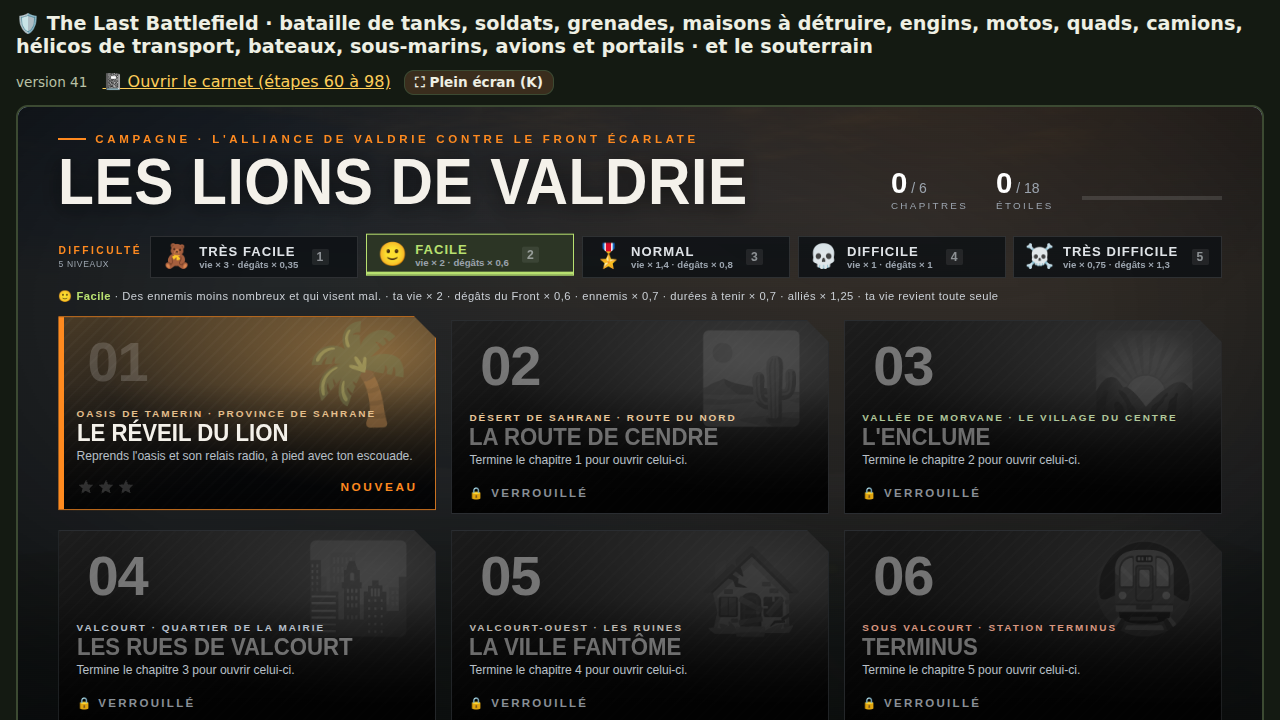
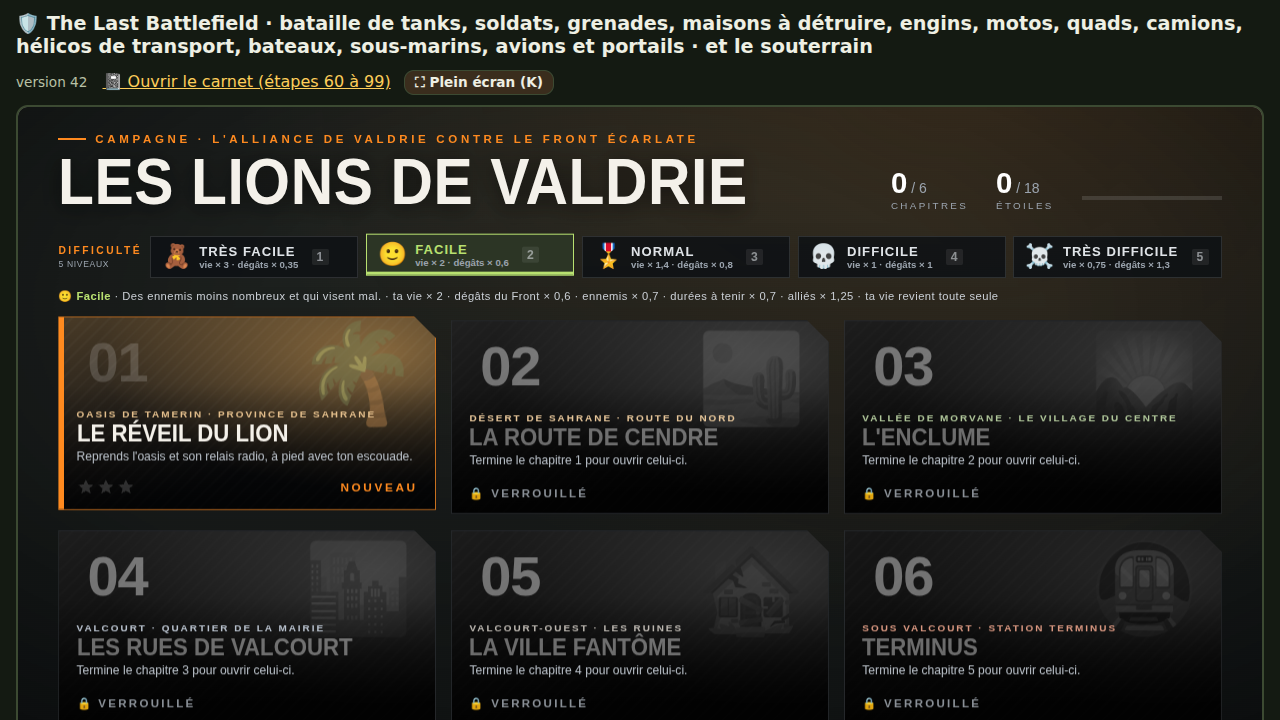
Étape 99 : tanks v42, une base aérienne par camp, pistes destructibles, véhicules rangés
Claude-Session: https://claude.ai/code/session_01NXxpzeFc1qsU3Rg1ZA8dHc

diff --git a/tanks/index.html b/tanks/index.html
@@ -454,7 +454,7 @@
   <div class="page">
     <header class="entete">
       <h1>🛡 The Last Battlefield · bataille de tanks, soldats, grenades, maisons à détruire, engins, motos, quads, camions, hélicos de transport, bateaux, sous-marins, avions et portails · et le souterrain</h1>
-      <span><span id="version" class="version"></span> <a href="../index.html#etape98">📓 Ouvrir le carnet (étapes 60 à 98)</a> <button id="plein-ecran" type="button" title="Plein écran (touche K)">⛶ Plein écran (K)</button></span>
+      <span><span id="version" class="version"></span> <a href="../index.html#etape99">📓 Ouvrir le carnet (étapes 60 à 99)</a> <button id="plein-ecran" type="button" title="Plein écran (touche K)">⛶ Plein écran (K)</button></span>
     </header>
 
     <div class="cadre-ecran">
@@ -511,71 +511,71 @@
   </div>
 
   <script src="../circuit/vendor/three.min.js"></script>
-  <script src="config.js?v=41"></script>
-  <script src="moteur/evenements.js?v=41"></script>
-  <script src="moteur/bruit.js?v=41"></script>
-  <script src="moteur/entrees.js?v=41"></script>
-  <script src="moteur/grille.js?v=41"></script>
-  <script src="donnees/carte-du-jour.js?v=41"></script>
-  <script src="logique/base.js?v=41"></script>
-  <script src="logique/terrain.js?v=41"></script>
-  <script src="logique/souterrain.js?v=41"></script>
-  <script src="logique/structures.js?v=41"></script>
-  <script src="logique/char.js?v=41"></script>
-  <script src="logique/obus.js?v=41"></script>
-  <script src="logique/ia.js?v=41"></script>
-  <script src="logique/soldat.js?v=41"></script>
-  <script src="logique/troupes.js?v=41"></script>
-  <script src="logique/vehicules.js?v=41"></script>
-  <script src="logique/helicos.js?v=41"></script>
-  <script src="logique/bateaux.js?v=41"></script>
-  <script src="logique/portails.js?v=41"></script>
-  <script src="logique/sousmarins.js?v=41"></script>
-  <script src="logique/avions.js?v=41"></script>
-  <script src="logique/ordres.js?v=41"></script>
-  <script src="logique/radio.js?v=41"></script>
-  <script src="logique/engins.js?v=41"></script>
-  <script src="logique/progression.js?v=41"></script>
-  <script src="logique/equipement.js?v=41"></script>
-  <script src="logique/armes.js?v=41"></script>
-  <script src="logique/gadgets.js?v=41"></script>
-  <script src="logique/explosifs.js?v=41"></script>
-  <script src="donnees/sauvegarde.js?v=41"></script>
-  <script src="logique/monde.js?v=41"></script>
-  <script src="logique/campagne.js?v=41"></script>
-  <script src="affichage/outils3d.js?v=41"></script>
-  <script src="affichage/chars3d.js?v=41"></script>
-  <script src="affichage/armes3d.js?v=41"></script>
-  <script src="affichage/uniformes.js?v=41"></script>
-  <script src="affichage/engins3d.js?v=41"></script>
-  <script src="affichage/vehicules3d.js?v=41"></script>
-  <script src="affichage/helicos3d.js?v=41"></script>
-  <script src="affichage/avions3d.js?v=41"></script>
-  <script src="affichage/maisons3d.js?v=41"></script>
-  <script src="affichage/base3d.js?v=41"></script>
-  <script src="affichage/decor.js?v=41"></script>
-  <script src="affichage/marques-sol.js?v=41"></script>
-  <script src="affichage/effets.js?v=41"></script>
-  <script src="affichage/particules.js?v=41"></script>
-  <script src="affichage/tirs.js?v=41"></script>
-  <script src="affichage/explosions.js?v=41"></script>
-  <script src="affichage/explosifs3d.js?v=41"></script>
-  <script src="affichage/station3d.js?v=41"></script>
-  <script src="affichage/scene.js?v=41"></script>
-  <script src="affichage/qualite.js?v=41"></script>
-  <script src="affichage/tableau.js?v=41"></script>
-  <script src="affichage/sous-le-capot.js?v=41"></script>
-  <script src="affichage/sons.js?v=41"></script>
-  <script src="affichage/musique.js?v=41"></script>
-  <script src="affichage/barre-ordres.js?v=41"></script>
-  <script src="affichage/radio-voix.js?v=41"></script>
-  <script src="affichage/ambiance.js?v=41"></script>
-  <script src="affichage/plein-ecran.js?v=41"></script>
-  <script src="affichage/accueil.js?v=41"></script>
-  <script src="affichage/menu.js?v=41"></script>
-  <script src="affichage/progression-ecrans.js?v=41"></script>
-  <script src="affichage/campagne-tableau.js?v=41"></script>
-  <script src="affichage/campagne-ecrans.js?v=41"></script>
-  <script src="main.js?v=41"></script>
+  <script src="config.js?v=42"></script>
+  <script src="moteur/evenements.js?v=42"></script>
+  <script src="moteur/bruit.js?v=42"></script>
+  <script src="moteur/entrees.js?v=42"></script>
+  <script src="moteur/grille.js?v=42"></script>
+  <script src="donnees/carte-du-jour.js?v=42"></script>
+  <script src="logique/base.js?v=42"></script>
+  <script src="logique/terrain.js?v=42"></script>
+  <script src="logique/souterrain.js?v=42"></script>
+  <script src="logique/structures.js?v=42"></script>
+  <script src="logique/char.js?v=42"></script>
+  <script src="logique/obus.js?v=42"></script>
+  <script src="logique/ia.js?v=42"></script>
+  <script src="logique/soldat.js?v=42"></script>
+  <script src="logique/troupes.js?v=42"></script>
+  <script src="logique/vehicules.js?v=42"></script>
+  <script src="logique/helicos.js?v=42"></script>
+  <script src="logique/bateaux.js?v=42"></script>
+  <script src="logique/portails.js?v=42"></script>
+  <script src="logique/sousmarins.js?v=42"></script>
+  <script src="logique/avions.js?v=42"></script>
+  <script src="logique/ordres.js?v=42"></script>
+  <script src="logique/radio.js?v=42"></script>
+  <script src="logique/engins.js?v=42"></script>
+  <script src="logique/progression.js?v=42"></script>
+  <script src="logique/equipement.js?v=42"></script>
+  <script src="logique/armes.js?v=42"></script>
+  <script src="logique/gadgets.js?v=42"></script>
+  <script src="logique/explosifs.js?v=42"></script>
+  <script src="donnees/sauvegarde.js?v=42"></script>
+  <script src="logique/monde.js?v=42"></script>
+  <script src="logique/campagne.js?v=42"></script>
+  <script src="affichage/outils3d.js?v=42"></script>
+  <script src="affichage/chars3d.js?v=42"></script>
+  <script src="affichage/armes3d.js?v=42"></script>
+  <script src="affichage/uniformes.js?v=42"></script>
+  <script src="affichage/engins3d.js?v=42"></script>
+  <script src="affichage/vehicules3d.js?v=42"></script>
+  <script src="affichage/helicos3d.js?v=42"></script>
+  <script src="affichage/avions3d.js?v=42"></script>
+  <script src="affichage/maisons3d.js?v=42"></script>
+  <script src="affichage/base3d.js?v=42"></script>
+  <script src="affichage/decor.js?v=42"></script>
+  <script src="affichage/marques-sol.js?v=42"></script>
+  <script src="affichage/effets.js?v=42"></script>
+  <script src="affichage/particules.js?v=42"></script>
+  <script src="affichage/tirs.js?v=42"></script>
+  <script src="affichage/explosions.js?v=42"></script>
+  <script src="affichage/explosifs3d.js?v=42"></script>
+  <script src="affichage/station3d.js?v=42"></script>
+  <script src="affichage/scene.js?v=42"></script>
+  <script src="affichage/qualite.js?v=42"></script>
+  <script src="affichage/tableau.js?v=42"></script>
+  <script src="affichage/sous-le-capot.js?v=42"></script>
+  <script src="affichage/sons.js?v=42"></script>
+  <script src="affichage/musique.js?v=42"></script>
+  <script src="affichage/barre-ordres.js?v=42"></script>
+  <script src="affichage/radio-voix.js?v=42"></script>
+  <script src="affichage/ambiance.js?v=42"></script>
+  <script src="affichage/plein-ecran.js?v=42"></script>
+  <script src="affichage/accueil.js?v=42"></script>
+  <script src="affichage/menu.js?v=42"></script>
+  <script src="affichage/progression-ecrans.js?v=42"></script>
+  <script src="affichage/campagne-tableau.js?v=42"></script>
+  <script src="affichage/campagne-ecrans.js?v=42"></script>
+  <script src="main.js?v=42"></script>
 </body>
 </html>

diff --git a/index.html b/index.html
@@ -220,6 +220,7 @@
       <a href="#etape96">Étape 96</a>
       <a href="#etape97">Étape 97</a>
       <a href="#etape98">Étape 98</a>
+      <a href="#etape99">Étape 99</a>
       <a href="#route">Vers Minecraft</a>
       <a href="#journal">Journal</a>
       <a class="jouer" href="jeu/index.html">▶ Jouer</a>
@@ -5141,6 +5142,44 @@ APRÈS :  [ tous les trottoirs soudés ]                   →   1 dessin</pre>
       </ol>
     </section>
 
+    <section id="etape99">
+      <h2>🛫 Étape 99 : les bases aériennes, et des pistes qu'on peut détruire <span class="etiquette">✅ livrée · à valider</span></h2>
+      <p class="chapeau">Chaque camp a sa base : une piste, des hangars, une tour de contrôle, des aires « H » pour les hélicos, une zone pour les tanks et un parking bien rangé. Et tu peux trouer la piste ennemie pour clouer ses avions au sol ! <a href="tanks/index.html"><strong>▶ The Last Battlefield</strong></a></p>
+      <div class="grille">
+        <div class="carte">
+          <h4>📋 La demande</h4>
+          <p class="petit">Le fichier complet est dans <code>demandes/99-base-aerienne.md</code>.</p>
+          <ul>
+            <li>✍ « Une base aérienne avec une piste d'atterrissage, des hangars et des zones pour faire décoller les avions, les hélicoptères et les tanks. Range tout. »</li>
+            <li>✍ « Tu pourras détruire leurs pistes pour empêcher les avions de chasse et les avions de transport de décoller. »</li>
+          </ul>
+        </div>
+        <div class="carte">
+          <h4>✅ Ce que tu peux vérifier</h4>
+          <ul>
+            <li>☐ « version 42 ».</li>
+            <li>☐ Ta base (au sud) : la piste, 3 hangars, la tour, les aires H, les tanks en ligne, le parking.</li>
+            <li>☐ La même base chez l'ennemi (au nord) ; pas de base dans le souterrain.</li>
+            <li>☐ Les avions ennemis roulent sur leur piste et décollent.</li>
+            <li>☐ 3 morceaux de piste troués (bombes du Tigre, roquettes, obus…) → piste FERMÉE, une croix jaune, plus d'avions ennemis ni de parachutistes.</li>
+            <li>☐ L'ennemi rebouche un trou toutes les 14 s. Toi, ton ingénieur rebouche ta piste avec l'outil de réparation (Espace, 4 s par trou).</li>
+          </ul>
+        </div>
+      </div>
+      <h3>🧩 Une piste en 8 morceaux</h3>
+      <p>La piste fait 440 m. Le jeu la coupe en 8 morceaux de 55 m. Chaque explosion donne des « points de dégâts » au morceau touché (bombe 2, roquette 1, grenade 0,5…). À 2 points, le morceau est troué. À 3 morceaux troués, la piste ferme. Elle rouvre seulement quand il n'y a plus aucun trou. C'est un compteur par morceau, puis une règle sur le total.</p>
+      <h3>🔍 Missions d'exploration</h3>
+      <ul>
+        <li>Sous le capot, section « Les bases aériennes (demande 99) » : regarde la barre [▮▮▮▮····] de chaque piste pendant que tu bombardes.</li>
+        <li>Dans <code>tanks/config.js</code>, cherche <code>baseAerienne</code> : combien de morceaux troués faut-il pour fermer la piste ?</li>
+      </ul>
+      <h3>❓ Quiz</h3>
+      <ol>
+        <li>Combien de morceaux troués ferment une piste ? <span class="petit">(3)</span></li>
+        <li>Si l'ennemi ferme TA piste, que peux-tu faire ? <span class="petit">(la réparer avec l'ingénieur)</span></li>
+      </ol>
+    </section>
+
     <!-- ============ LE VILLAGE (projet à part) ============ -->
     <section id="village">
       <h2>🏘 Le village : un projet à part</h2>
@@ -6465,6 +6504,15 @@ APRÈS :  [ tous les trottoirs soudés ]                   →   1 dessin</pre>
         <textarea class="journal" id="appris-98" data-cle="appris-98" placeholder="Ex. : …"></textarea>
         <label for="idees-98"><strong>Mes idées pour la suite</strong></label>
         <textarea class="journal" id="idees-98" data-cle="idees-98" placeholder="Ex. : …"></textarea>
+      </div>
+      <div class="carte" style="margin-top: 14px">
+        <h4>Étape 99 · les bases aériennes <span class="petit">· 22 octobre 2026</span></h4>
+        <p><strong>Ce qui a été changé :</strong> <code>tanks/logique/base.js</code>, <code>tanks/affichage/base3d.js</code>, <code>terrain.js</code>, <code>avions.js</code>, <code>engins.js</code>.</p>
+        <p class="petit">✍ Maxance a demandé : une base aérienne rangée, et des pistes qu'on peut détruire.</p>
+        <label for="appris-99"><strong>Ce que j'ai appris</strong> <span class="petit">(à remplir par Maxance, sauvegardé dans ce navigateur)</span></label>
+        <textarea class="journal" id="appris-99" data-cle="appris-99" placeholder="Ex. : …"></textarea>
+        <label for="idees-99"><strong>Mes idées pour la suite</strong></label>
+        <textarea class="journal" id="idees-99" data-cle="idees-99" placeholder="Ex. : …"></textarea>
       </div>
     </section>
   </main>

diff --git a/tanks/affichage/base3d.js b/tanks/affichage/base3d.js
@@ -368,7 +368,7 @@ Tanks.Base3D = (function () {
     const mats = {
       beton: new THREE.MeshStandardMaterial({ map: imageBeton(), vertexColors: true, roughness: 0.92, polygonOffset: true, polygonOffsetFactor: -1, polygonOffsetUnits: -1 }),
       piste: new THREE.MeshStandardMaterial({ map: imagePiste(), roughness: 0.85, polygonOffset: true, polygonOffsetFactor: -2, polygonOffsetUnits: -2 }),
-      tole: new THREE.MeshStandardMaterial({ map: imageTole(), vertexColors: true, roughness: 0.75, metalness: 0.05, emissive: 0x23251f, side: THREE.DoubleSide, shadowSide: THREE.FrontSide }),
+      tole: new THREE.MeshStandardMaterial({ map: imageTole(), vertexColors: true, roughness: 0.75, metalness: 0.05, emissive: 0x3a3c34, side: THREE.DoubleSide, shadowSide: THREE.FrontSide }),
       lampe: new THREE.MeshBasicMaterial({ toneMapped: false }),
       lampeGeo: new THREE.BoxGeometry(0.45, 0.3, 0.45),
       aire: new THREE.MeshStandardMaterial({ map: imageAire(), roughness: 0.9, polygonOffset: true, polygonOffsetFactor: -3, polygonOffsetUnits: -3 }),

diff --git a/tanks/affichage/accueil.js b/tanks/affichage/accueil.js
@@ -29,7 +29,7 @@ Tanks.Accueil = (function () {
       '<div class="a-boutons" hidden>' +
       '<button class="a-jouer a-mode a-campagne" data-accueil="campagne">▶ CAMPAGNE<small>' + Tanks.CONFIG.campagne.chapitres.length + " chapitres · l'histoire</small></button>" + // (étape 88)
       '<button class="a-jouer a-mode a-bataille" data-accueil="bataille">⚔ BATAILLE<small>bataille libre · toutes les cartes</small></button>' +
-      '<a class="a-carnet" href="../index.html#etape98">📓 Le carnet</a>' +
+      '<a class="a-carnet" href="../index.html#etape99">📓 Le carnet</a>' +
       "</div>" +
       '<p class="a-pied">← → choisir · Entrée : entrer · M : musique</p>' +
       "</div>";

diff --git a/tanks/config.js b/tanks/config.js
@@ -27,7 +27,7 @@ window.Tanks = window.Tanks || {};
 
 Tanks.CONFIG = {
   // Numéro de version. Il doit être le même que le « ?v=… » des fichiers dans tanks/index.html.
-  version: 41,
+  version: 42,
   // ✍ (étape 87) L'AMBIANCE « BATTLEFIELD » (affichage/ambiance.js) : un filtre de cinéma sur l'image 3D.
   // contraste, saturation (1 = normal ; 0,8 = couleurs un peu éteintes), luminosité, teinte (la force du bleu-vert dans
   // les ombres et de l'orange dans les lumières, de 0 à 1), vignette (les bords sombres, de 0 à 1), grain (de 0 à 1).

diff --git a/demandes/99-base-aerienne.md b/demandes/99-base-aerienne.md
@@ -1,6 +1,6 @@
 # Demande n° 99 : une base aérienne dans chaque camp, et des pistes qu'on peut détruire
 
-> Statut : 🛠 en cours.
+> Statut : ✅ livrée (tanks version 42).
 > ✍ = ce que Maxance a décidé.
 
 ## 🎯 Quoi
@@ -21,6 +21,6 @@ détruire leurs pistes pour empêcher les avions de chasse et les avions de tran
 - Tout se voit sous le capot (l'état de chaque piste).
 
 ## ✅ Critères de réussite
-- [ ] Tanks « version 42 ».
-- [ ] Deux bases aériennes rangées, sauf dans le souterrain.
-- [ ] Des cratères sur la piste ; piste fermée = plus d'avions qui décollent ; réparation.
+- [x] Tanks « version 42 ».
+- [x] Deux bases aériennes rangées, sauf dans le souterrain.
+- [x] Des cratères sur la piste ; piste fermée = plus d'avions qui décollent ; réparation.
